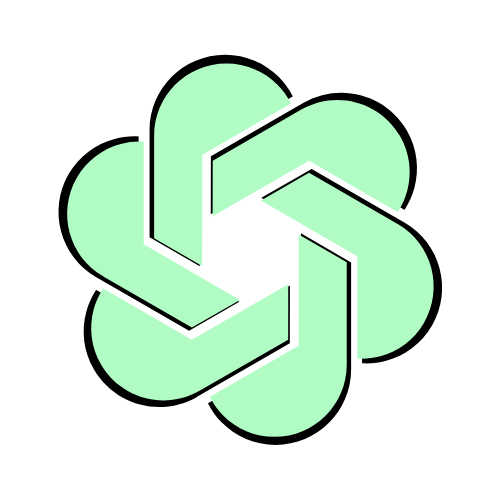
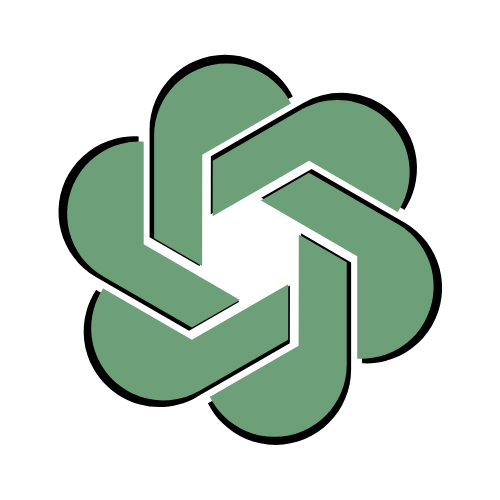
Color palette changed, minor frontend issues resolved

diff --git a/frontend/src/components/Header.tsx b/frontend/src/components/Header.tsx
@@ -18,13 +18,13 @@ const Header = () => {
           {auth?.isLoggedIn ? (
             <>
               <NavigationLink
-                bg="#B1FBC4"
+                bg="#77A681"
                 to="/chat"
                 text="Chat"
                 textColor="black"
               />
               <NavigationLink
-                bg="#138A36"
+                bg="#0C5622"
                 to="/"
                 text="Log out"
                 textColor="white"
@@ -34,13 +34,13 @@ const Header = () => {
           ) : (
             <>
             <NavigationLink
-                bg="#B1FBC4"
+                bg="#77A681"
                 to="/login"
                 text="Log in"
                 textColor="black"
               />
               <NavigationLink
-                bg="#138A36"
+                bg="#0C5622"
                 to="/signup"
                 text="Sign up"
                 textColor="white"

diff --git a/frontend/src/components/shared/Logo.tsx b/frontend/src/components/shared/Logo.tsx
@@ -11,7 +11,7 @@ const Logo = () => {
         gap: "8px",
       }}
     >
-      <Link to={"/"} style={{display: "flex", alignItems: "center"}}>
+      <Link to={"/"} style={{display: "flex", alignItems: "center", textDecoration: "none"}}>
         <img
           src="5.png"
           alt="openai"
@@ -28,7 +28,7 @@ const Logo = () => {
             textShadow: "2px 2px 20px #000",
           }}
         >
-          <span style={{ fontSize: "20px" }}>MERN</span>-GPT
+          <span style={{ fontSize: "20px"}}>MERN</span>-GPT
         </Typography>
       </Link>
     </div>

diff --git a/frontend/src/components/chat/ChatItem.tsx b/frontend/src/components/chat/ChatItem.tsx
@@ -40,7 +40,7 @@ const ChatItem = ({
       sx={{
         display: "flex",
         p: 2,
-        bgcolor: "#138A36",
+        bgcolor: "#0C5622",
         my: 1,
         gap: 2,
         borderRadius: 2,
@@ -67,7 +67,7 @@ const ChatItem = ({
       </Box>
     </Box>
   ) : (
-    <Box sx={{ display: "flex", p: 2, bgcolor: "#B1FBC4", gap: 2 }}>
+    <Box sx={{ display: "flex", p: 2, bgcolor: "#77A681", gap: 2 }}>
       <Avatar sx={{ ml: "0", bgcolor: "black", color: "white" }}>
         {auth?.user?.name[0]}
         {auth?.user?.name.split(" ")[1]?.[0]}

diff --git a/frontend/src/pages/Chat.tsx b/frontend/src/pages/Chat.tsx
@@ -98,7 +98,7 @@ const Chat = () => {
             display: "flex",
             width: "100%",
             height: "60vh",
-            bgcolor: "#138A36",
+            bgcolor: "#0C5622",
             borderRadius: 5,
             flexDirection: "column",
             mx: 3,
@@ -201,7 +201,7 @@ const Chat = () => {
           style={{
             width: "100%",
             borderRadius: 8,
-            backgroundColor: "#138A36",
+            backgroundColor: "#0C5622",
             display: "flex",
             margin: "auto",
           }}

diff --git a/frontend/src/index.css b/frontend/src/index.css
@@ -13,7 +13,7 @@ body {
 
 
 .nav-link {
-  color: #0CB92D;
+  color: #77A681;
   font-weight: 600;
   text-transform: uppercase;
   margin-right: 10px;
